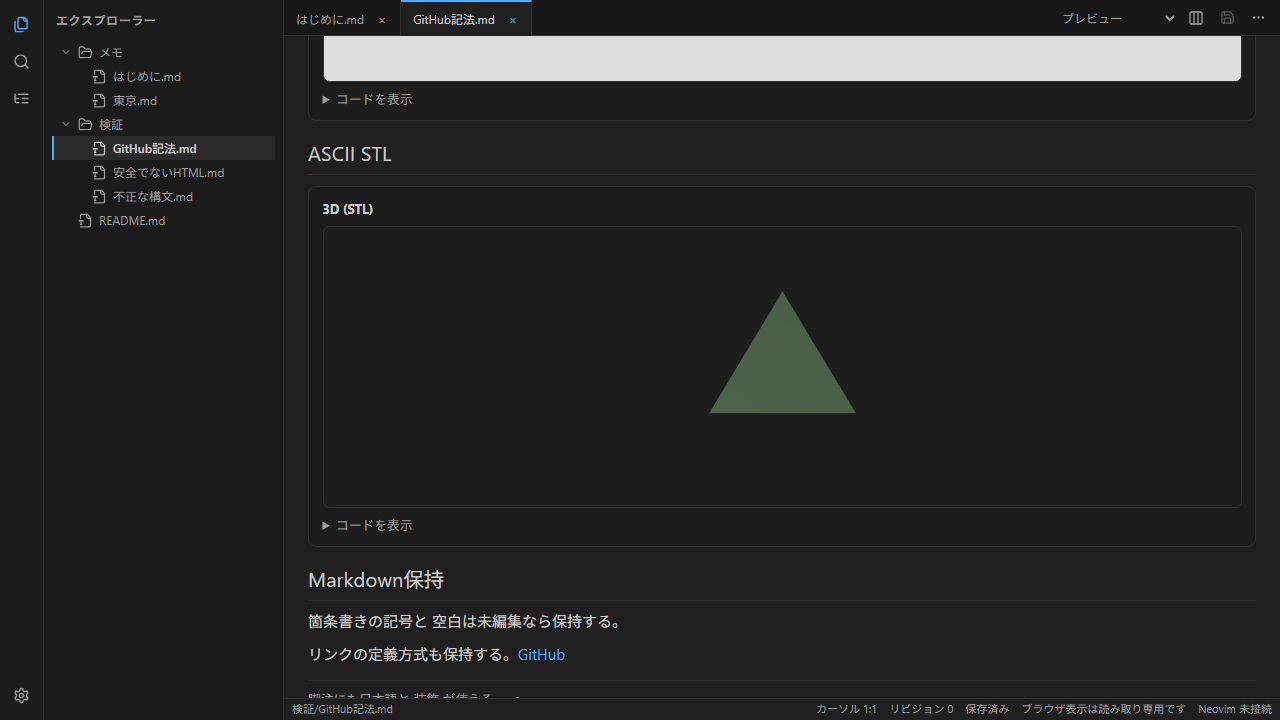
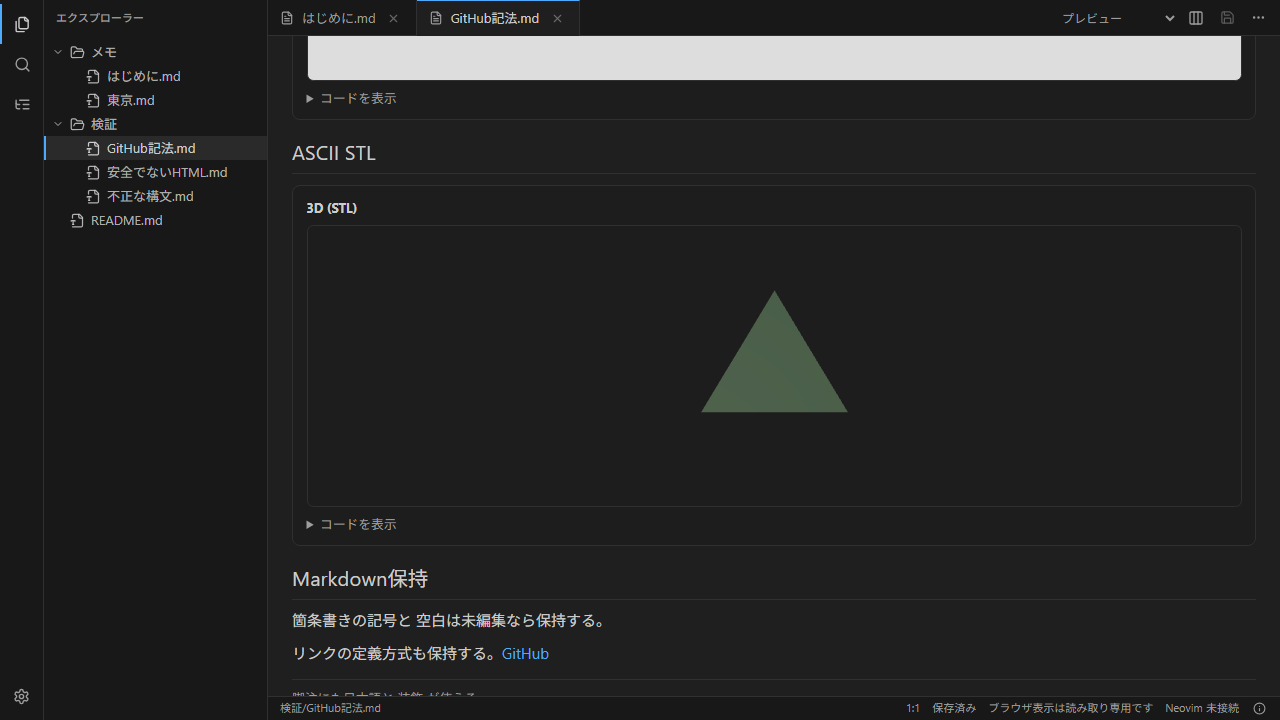
docs: verify desktop UI and manual CI on Windows and Linux

diff --git a/docs/reports/issue-9-integration.md b/docs/reports/issue-9-integration.md
@@ -1,27 +1,32 @@
 # Marxen 統合検証・Windows 配布確認
 
-検証日: 2026-10-09。環境: Windows x64、Node 22.23.2、Rust 1.99.0 MSVC、Tauri 2.12、WebView2 / Edge 154、Neovim 0.11.5。
+検証日: 2026-10-09。UI・配布物のソースは `8150fa1`。Windows x64、Node 22.23.2、Rust 1.99.0 MSVC、Tauri 2.12、WebView2 / Edge 154、Neovim 0.11.5。Rust 検証ソース `8eccced` と配布対象の `src-tauri/` は一致する。
 
 ## 自動検証
 
 | 検証 | 結果 |
 | --- | --- |
 | TypeScript `typecheck` / production `build` | 成功 |
-| Vitest | 36 ファイル / 231 件成功 |
+| Vitest | 38 ファイル / 239 件成功 |
 | 配布資源スクリプト | Node 3 件成功 |
-| Windows native Rust | 161 件成功。実 Neovim の編集・保存・復元・隔離、ローカル HTTP / ACP の AI 回帰を含む |
+| Windows native Rust | 162 件成功。実 Neovim の編集・保存・復元・隔離、ローカル HTTP / ACP の AI 回帰を含む |
 | Rust fmt / Clippy | fmt と全 target の `-D warnings` 成功 |
 | 生成 IPC 契約 | 文書・AI・隔離の 3 種類すべて一致 |
 | 製品 E2E | Chromium 12 件成功 |
 | ライブ編集器 E2E | Chromium 17 件成功 |
 | 実 Neovim smoke | 同梱資源と配布物の両方で、版・Markdown runtime・日本語・絵文字 buffer が成功 |
-| Docker devcontainer build | 未完了。OS 依存パッケージの展開中に Docker のビルド接続が切断された。Linux コンテナーの回帰は未実施 |
+| Linux の frontend | `8150fa1` の typecheck / build、38 ファイル / 239 件、資源スクリプト 3 件、製品 E2E 12 件・ライブ E2E 17 件成功 |
+| Linux native Rust / 契約 / Clippy / package | 開発依存不足で assertion 前に停止。fmt は成功。deb / AppImage は未生成 |
 
-資格情報ストアのテストは opt-in で、既定の Rust テストでは実ストアを操作しない。専用 entry を使った Windows の保存・再取得・削除は別途確認済み。利用者の API 資格情報は使っていない。
+実行したコマンドと workflow との差は [手動 CI](manual-ci.md) / [Linux 手動検証](issue-16-linux-manual-ci.md) に記載する。Rust の 162 件には、既定では早期 return する実資格情報ストアと実 ACP 接続の opt-in テスト各 1 件を含む。認証済み AI の生成成功を意味しない。専用 entry を使った Windows の保存・再取得・削除は別ソースで確認済み。利用者の API 資格情報は使っていない。
 
 ## Windows 実アプリ
 
-実 WebView2 と Rust の文書 snapshot、revision、ファイルを読み戻して判定した。キー・ドラッグは Windows への合成入力であり、ハードウェアによる押下ではない。
+`8150fa1` の NSIS を展開した実配布アプリで、ライブ・ツリー・タブ・左右分割・設定・Agent・インラインを確認した。画面と検証項目は [UI 検証](issue-17-ui.md) に保存する。Agent は二つの会話を切り替えて履歴を保持し、質問前後で本文不変。インラインは提案受信後も承認前は本文不変で、製品 UI の承認により最初の見出しだけを変更した。一回の UI Undo で Neovim と画面を元の本文・保存済みに復元し、ディスクの本文も一致した。
+
+[Agent](issue-17-ui/windows-agent.png)、[インライン](issue-17-ui/windows-inline.png)、[左右分割](issue-17-ui/windows-split.png)、[設定](issue-17-ui/windows-settings.png) は今回の配布アプリの実画面。
+
+以下の表は `afdef80` と当時の開発アプリ・配布物で実施した結果。今回の UI ソースでの再実施とは区別する。実 WebView2 と Rust の文書 snapshot、revision、ファイルを読み戻して判定した。キー・ドラッグは Windows への合成入力であり、ハードウェアによる押下ではない。
 
 | 操作 | 確認した結果 |
 | --- | --- |
@@ -36,32 +41,37 @@
 | AI 取消 | 途中の応答を取消し、提案を作らず文書を保持 |
 | 画像入りリッチコピー | Windows Word の通常の貼り付けで二つの PNG、見出し、表、日本語・絵文字を保持。HTML / RTF の両方に画像を含む。元のクリップボードを復元 |
 
-配布版から開いた [インラインチャット](issue-9-integration/windows-inline.png)、[Agent チャット](issue-9-integration/windows-agent.png)、[画像タブ](issue-9-integration/windows-image.png)。製品 E2E の [分割](issue-5-ui/split.png)、[設定](issue-5-ui/settings-dark.png) も参照。
+旧画面の [インライン](issue-9-integration/windows-inline.png)、[Agent](issue-9-integration/windows-agent.png)、[画像タブ](issue-9-integration/windows-image.png) は `afdef80` の配布版。製品 E2E の [分割](issue-5-ui/split.png)、[設定](issue-5-ui/settings-dark.png) は Chromium の画面であり、実 WebView2 と区別する。
 
-GUI の AI 回答・提案・取消はローカル検証用 ACP プロセスを使用した。認証済み provider への生成成功は意味しない。インラインの差分適用・Undo と画像ドラッグは同じ Rust / WebView2 の開発アプリで検証し、配布版では起動、画像表示、チャット、IME と資源配置を確認した。
+GUI の AI 回答・提案・取消はローカル検証用 ACP プロセスを使用した。認証済み provider への生成成功は意味しない。上表の画像ドラッグは当時の Rust / WebView2 開発アプリで検証し、IME・画像表示・チャット・資源配置は当時の配布版でも確認した。今回の配布版で確認した差分適用と Undo は前述の通り。
 
 ## Windows 配布物
 
-アプリソースは `afdef80`。未署名 NSIS `Marxen_0.1.0_x64-setup.exe` を生成し、インストールせず作業ディレクトリへ展開して起動した。
+アプリソースは `8150fa1fb0dd67d0a1169f7af07e533eca0740ce`。未署名 NSIS `Marxen_0.1.0_x64-setup.exe` を生成し、インストールせず作業ディレクトリへ展開して起動した。
 
 | 項目 | 値 |
 | --- | --- |
-| インストーラーのサイズ | 16,261,272 bytes |
[2 lines of base64/hex data omitted]
+| インストーラーのサイズ | 15,791,028 bytes |
[2 lines of base64/hex data omitted]
 | Neovim 資源 | 2,067 ファイル。配布元とのファイル集合・各 SHA-256 がすべて一致 |
+| 開発用バイナリー | 契約出力 3 種類と ACP / 隔離 mock 2 種類を含まない |
 
 展開したアプリと build 出力の差分は Tauri の NSIS 識別子 3 bytes のみ。実プロセスの親子関係から、展開先の `neovim/bin/nvim.exe` を起動したことも確認した。検証用画面に開いた文書は未保存変更を残さず閉じた。
 
 ## OS ごとの確認範囲
 
-CI は Windows x64 (NSIS)、macOS arm64 / x64 (app / DMG)、Linux x64 (deb / AppImage) で native テスト・IPC・E2E・package build を実行する設定。`7faaba1` の [実行](https://github.com/staka-devs/marxen/actions/runs/37860020737) は 4 target ともステップ開始前に停止した。GitHub の注釈はアカウントの支払い失敗または利用上限の制限を示し、テストログと配布成果物は生成されていない。ローカル Windows の成功と区別する。
+CI は Windows x64 (NSIS)、macOS arm64 / x64 (app / DMG)、Linux x64 (deb / AppImage) で native テスト・IPC・E2E・package build を実行する設定。`8150fa1` の [実行](https://github.com/staka-devs/marxen/actions/runs/37926614016) は 4 target とも step 数 0。GitHub の注釈はアカウントの支払い失敗または利用上限の制限を示し、テストログと配布成果物は生成されていない。手動検証の成功と区別する。
 
 対象コミットの最新結果と成果物は [PR #10 の checks](https://github.com/staka-devs/marxen/pull/10/checks) を参照する。古いコミットの結果を現在の確認結果に流用しない。
+
+Clean Architecture / YAGNI / DRY / SOLID のレビュー結果と未達箇所は [フロントエンド](issue-14-frontend-architecture.md) / [Rust](issue-15-backend-architecture.md) に記載する。Shell の責務集中と具体的な adapter への依存が残り、厳密な完全準拠とは判定しない。
 
 以下は未確認。
 
 - macOS / Linux の実 WebView、日本語 IME、OS 資格情報ストア、配布後の対話操作。
+- macOS の手動 native 回帰、Linux の native テスト・契約・Clippy・deb / AppImage。
+- 今回の UI ソースでの Windows 実 IME・Word 貼り付けの再検証。
 - Windows 実 WebView2 での地図・3D 描画。Chromium では確認済み。
 - 認証済み Codex / OpenCode / HTTP provider への生成要求。実 OpenCode 接続は initialize / session/new まで。
 - メールアプリへの画像入りリッチテキスト貼り付け。

diff --git a/docs/reports/issue-15-backend-architecture.md b/docs/reports/issue-15-backend-architecture.md
@@ -22,7 +22,7 @@
 | 文書の保存 / [storage](../../src-tauri/src/storage.rs) | GUI 保存の `save` と `marxen:save-requested` 通知処理は同じ `save_locked` → `storage::atomic_write` へ入る。保存は disk fingerprint を再確認し、Neovim の acknowledgement 後に dirty と recovery を清算する。 | GUI と `:w` の二重の本番保存経路はない。storage は OS / fs アダプターとして機能するが、DocumentActor が concrete module を直接呼ぶ。既存の save / Undo / recovery の動作は変更していない。 |
 | [Workspace](../../src-tauri/src/workspace.rs) | BTreeMap の DocumentActor 登録、`open_text_file` の disk 読出しと fingerprint 競合確認、一覧・検索・画像・recovery・poll を具体的に扱う。Tauri 型は使わない。 | アプリケーション側の組立てとファイルシステム操作を兼ねる。厳密な層分離や SRP の単一責務とは言えない。今回、登録・保存契約を再設計する根拠はなく、具体的な責務集中を残す。 |
 | [AI transport](../../src-tauri/src/ai.rs) / OS 資格情報 | `run_acp_prompt` は argv で子プロセスを起動し、`run_http_prompt` は reqwest の stream を処理する。`AgentKeyring` に OsKeyring / MemoryKeyring の実装があり、`resolve_http_request` が HTTP 接続先と資格情報を pin より前に解決する。 | transport、validation、SSE / NDJSON parser、registry、keyring が一つのモジュールに残る。AgentKeyring は実装とテストの差替えに利用される既存の小さい interface。transport の全面的な DIP / SRP は未達。 |
-| [IsolationManager](../../src-tauri/src/isolation.rs) | `create_copy` は文書の snapshot と登録範囲だけを使う。`authorize_prompt` は文書・revision・excerpt・範囲の完全一致を検証する。`approve` は全 actor を native preflight してから範囲適用し、部分失敗 / native Undo rollback の結果を返す。 | コピー管理、パスガード、diff / proposal、承認処理、契約型と fs の責務が集中している。Workspace / DocumentActor / storage に直接依存する。範囲認可・原本文書の権威・pin 契約を保つ具体的なアプリケーション境界とする。 |
+| [IsolationManager](../../src-tauri/src/isolation.rs) | `create_copy` は文書の snapshot と登録範囲だけを使う。`authorize_prompt` は文書・revision・excerpt・範囲の完全一致を検証する。`approve` は全 actor を native preflight してから範囲適用し、部分失敗 / native Undo rollback の結果を返す。 | コピー管理、パスガード、diff / proposal、承認処理、契約型と fs の責務が集中している。Workspace / DocumentActor / storage に直接依存する。範囲認可・実 Neovim 正本・pin 契約を保つ具体的なアプリケーション境界とする。 |
 | Tauri / [lib](../../src-tauri/src/lib.rs) / [ipc](../../src-tauri/src/ipc.rs) | lib が plugin / state / resource directory / invoke handler とイベント poll を構成する。IPC が Tauri State・AppHandle・ロック・画面通知を扱う。 | composition と adapter の配置は妥当。旧 `ai::*` / `isolation::*` 経路は互換 re-export で IPC を参照するので、ソース依存の向きが完全に内側へ統一されたわけではない。 |
 
 ## 原則別の結論
@@ -30,7 +30,14 @@
 - **Clean Architecture:** 副作用のない validation、OS / RPC 実装、デスクトップ接続の境界は確認できる。アプリケーションは具体的な Neovim / storage / fs / reqwest に依存し、互換 facade は外側を参照するため、依存規則の全面準拠とは言えない。
 - **YAGNI:** 使用されない staging resolver interface とテスト用実装を除去した。本番 caller のない AI 側の重複パスガードも除去し、隔離側の逸脱拒否を維持した。新しい port、汎用 DI、plugin framework、別の文書正本を導入していない。
 - **DRY:** 隔離実行の準備は本番 IPC と ACP 終了テストで同じ入口を使う。保存は同じ production flow。本番 caller のない AI パスガードを除去して、production の isolation ガードに確認を集約した。残る重複として actor の初期化 / configure の Neovim 設定と複数の ID 検証がある。初期化の差異やエラー契約を確認せず機械的に統合しない。
-- **SOLID:** actor の状態所有、隔離準備、IPC アダプターの責務を改善した。SRP / DIP の未達は上表の通り。provider は明示的な enum / match で扱い、単一実装の将来拡張だけを理由に OCP の framework を作らない。今回 LSP / ISP の全面準拠を立証するものではない。
+
+| SOLID の原則 | 判定・根拠 |
+| --- | --- |
+| SRP | IPC の画面接続と隔離実行の準備を分離した。ただし DocumentActor、Workspace、AI transport、IsolationManager は上表の複数の責務を持つため、全面的には未達 |
+| OCP | provider は明示的な enum / match で扱い、接続先追加には validation と adapter の分岐変更が必要。全面的には未達。未要求の plugin framework は追加しない |
+| LSP | `AgentKeyring` の Memory / OS 実装は資格情報長の検証、未登録時の `None`、未登録の削除成功という同じ契約を持つ。mock の呼出しとエラー処理は回帰確認したが、今回の既定テストは全 OS の実ストアを操作せず、全面的な置換可能性の実証にはならない |
+| ISP | 資格情報 interface は get / set / delete / has の利用する操作に限定。文書・AI・隔離の IPC 型を分離。一方 Workspace / DocumentActor の具体的な大きい API を利用側が参照するため、全面的な interface 分離は未達 |
+| DIP | 資格情報は既存の `AgentKeyring` を介して差し替えられる。文書・隔離ユースケースは具体的な Neovim / storage / fs に依存し、互換 facade は外側の IPC を参照するため、全面的には未達 |
 
 ## 維持する契約
 
@@ -55,6 +62,8 @@ Windows x64 の native Rust、既定の `desktop` feature、`CARGO_BUILD_JOBS=1`
 
 新しい 2 件の隔離テストは、範囲を広げた要求・異なる Workspace・存在しない staging が pin を残さないこと、成功後の承認・却下・取消が実際の pin 解放まで拒否されることを確認する。既存の native Neovim による範囲適用・Undo・disk/revision 競合・部分 rollback・遅延した子プロセス・HTTP 終了・panic 時の回収テストも通過した。
 
-## 未実施の検証
+## 統合検証と未確認の範囲
 
-この変更に対する Rust 全 suite、Clippy、3 種類の TypeScript 契約出力比較、配布 package はこの対象検証には含めていない。認証済みの実 AI 接続と OS 資格情報ストア、Windows の実 WebView / IME、macOS / Linux の native テスト・実 WebView / IME も未実施。native Neovim / mock transport の成功からこれらの成功を推定しない。
+統合した `8eccced` で Windows native Rust 全 162 件、Clippy `-D warnings`、3 種類の TypeScript 契約出力比較、NSIS 生成を確認した。UI ソース `8150fa1` の Rust / Tauri ソースは `8eccced` と同じ。実 Windows WebView2 → Rust → ACP fixture の回答、範囲承認、実 Neovim の Undo も確認した。コマンドと実行対象は [手動 CI](manual-ci.md)、GUI と配布の証拠は [統合検証](issue-9-integration.md) / [UI 検証](issue-17-ui.md) に記載する。
+
+認証済みの実 AI 生成、今回の実 OS 資格情報ストア / IME の再検証、macOS の native 回帰、macOS / Linux の実 WebView / IME は未実施。Linux の native コマンドは開発依存不足で assertion 前に停止した。native Neovim / mock transport の成功からこれらの成功を推定しない。

diff --git a/docs/reports/issue-17-ui.md b/docs/reports/issue-17-ui.md
@@ -1,0 +1,32 @@
+# デスクトップ UI の検証
+
+対象ソース: `8150fa1`。検証日: 2026-10-09。Windows x64 / WebView2 / 同梱 Neovim 0.11.5。生成した NSIS から展開した配布アプリを起動した。実アプリの文書と画像は検証専用のローカル fixture。
+
+## 画面と操作
+
+タブとツリーの行高、アイコン、余白、選択状態、ボタンの密度を統一した。ライブは本文幅を調整し、ステータスバーは通常の編集に必要な情報を示す。Agent のモードと操作は入力欄にまとめ、履歴・新規・閉じる操作はヘッダーに置く。接続設定と完了したレビューは折りたたむ。設定はアプリ全体の中央へ配置する。
+
+実 Windows WebView2 の配布アプリ画面を撮影し、ライブ、左右分割、Agent、インライン、設定を目視確認した。WebView 内の寸法は 1180 × 800、Windows の 125% 表示で撮影したウィンドウは 1493 × 1047。配布物の資源と SHA-256 は [統合検証](issue-9-integration.md) に記載する。
+
+| 確認 | 結果 |
+| --- | --- |
+| ライブとツリー | フォルダー・ファイル・画像のアイコン、選択行、タブの名前・アイコン・閉じる操作、本文の余白、アクティブ行とブロックカーソルを確認 |
+| 分割 | 編集とプレビューの幅は各 453.5px、間に 5px の separator。本文を重ねず左右に表示。独立したスクロールと幅変更操作がある |
+| 設定 | 760 × 600px の dialog がアプリ全体の中央。Agent が開いていても中心が変わらない。カテゴリ、数値・選択・チェック操作を確認 |
+| Agent | 実 Rust → ローカル ACP fixture → WebView2 の回答。質問で本文を変更しない。二つの会話を作成・切替し、回答履歴を保持。入力欄がパネル下部に収まる |
+| ショートカット | Windows 合成キーを WebView の trusted event として観測。Ctrl+i はインラインを開かず、Ctrl+Shift+i はインラインを開く |
+| インライン | 編集領域の中、カーソル付近に収まる。入力欄へフォーカスし、Agent を閉じる。回答前後の Rust snapshot は同一 |
+| 承認と Undo | UI の承認で最初の見出しだけを変更し、残りの本文は完全一致。製品 UI の「元に戻す」一回で Neovim と画面が元の本文・保存済みへ復元。ディスクを変更しない |
+| 完了したレビュー | 結果を折りたたみ、無効な承認操作を表示しない。失敗・rollback の既存回帰を維持 |
+
+画面画像は [Agent](issue-17-ui/windows-agent.png)、[インライン](issue-17-ui/windows-inline.png)、[分割](issue-17-ui/windows-split.png)、[設定](issue-17-ui/windows-settings.png) を参照する。
+
+## 回帰と設計
+
+CI 相当の実行コマンドと最終結果は [手動 CI](manual-ci.md)。`WorkspaceShell.ai-review.test.tsx` は radio から select への操作変更に対応し、範囲・revision・承認・競合・rollback の assertion を維持した。追加の回帰は履歴コントロール・初回の不要な再試行非表示、閉じる操作、完了したレビューの表示を確認する。
+
+新しい dependency や汎用状態管理基盤は追加していない。共通の Button と chat CSS で操作の見た目を共有し、Neovim・保存・AI 通信の所有は Rust のまま。アプリの判断は [ADR-0102](../adr/ADR-0102-編集画面とチャットの操作密度を統一する.md)。厳密な Clean Architecture / SOLID の未達箇所は [フロントエンド](issue-14-frontend-architecture.md) / [Rust](issue-15-backend-architecture.md) に記載する。
+
+## 確認範囲
+
+デスクトップの操作確認は実 Windows WebView2 を使った。AI は fixture による回答であり、認証済みの外部 provider の生成結果ではない。今回の実 IME・Word 貼り付けの再検証、macOS / Linux の実 WebView / IME は未実施。過去の IME・コピー検証とは [統合検証](issue-9-integration.md) で区別する。

diff --git a/docs/reports/manual-ci.md b/docs/reports/manual-ci.md
@@ -1,0 +1,43 @@
+# CI 相当の手動検証
+
+検証日: 2026-10-09。対象コマンドは [Integration workflow](../../.github/workflows/ci.yml)。各コマンドの終了コードを確認した。GitHub Actions の成功としては扱わない。
+
+## Windows x64
+
+Windows / MSVC、Node 22.23.2、npm 11.17、Rust 1.99.0、同梱 Neovim 0.11.5。UI・フロントエンドのソースは `8150fa1`。Rust・生成契約の検証ソースは `8eccced` で、`8150fa1` の `src-tauri/` との一致を比較した。配布物の識別情報は [統合検証](issue-9-integration.md) に記載する。
+
+| 手動実行したコマンド | 結果 |
+| --- | --- |
+| `npm ci` | 成功、脆弱性 0 件。依存 lockfile は検証後変更していない |
+| `npm run bundle:neovim -- --target x86_64-pc-windows-msvc` | 成功 |
+| `npm run verify:neovim -- --target x86_64-pc-windows-msvc` | 実 Neovim の版・Markdown runtime・日本語・絵文字を確認 |
+| `npm run contracts:check` | 成功 |
+| `npm run ai-contracts:check` | 成功 |
+| `npm run isolation-contracts:check` | 成功 |
+| `npm run typecheck` | 成功 |
+| `npm test -- --maxWorkers=2` | exit 0、38 ファイル / 239 件成功 |
+| `npm run test:bundling` | Node 3 件成功 |
+| `npm run build` | 成功 |
+| `cargo fmt --manifest-path src-tauri/Cargo.toml -- --check` | 成功 |
+| `cargo test --manifest-path src-tauri/Cargo.toml --locked --features dev-tools -j1` | Windows native Rust 162 件成功 |
+| `cargo check --manifest-path src-tauri/Cargo.toml --locked -j1` | 成功 |
+| `cargo clippy --manifest-path src-tauri/Cargo.toml --locked --features dev-tools -j1 --all-targets -- -D warnings` | 成功 |
+| `npx playwright install --with-deps chromium` | 成功 |
+| `npm run test:e2e` | 製品 12 件 / ライブ編集器 17 件成功 |
+| `npm run tauri -- build --config src-tauri/tauri.bundle.conf.json --bundles nsis` | 未署名 NSIS の生成に成功。展開・資源照合は統合検証に記載 |
+
+並列度だけを Vitest 2 / Cargo 1 に制限し、Rust build cache を使用した。Windows の package コマンドは host が `x86_64-pc-windows-msvc` のため明示的な `--target` を省略した。workflow の別 target 用の出力ディレクトリとは異なるが、製品 feature と配布設定は同じ。テスト対象・assertion・retry は削減していない。
+
+Rust の件数には、既定では早期 return する実資格情報ストアと実 ACP 接続の opt-in テスト各 1 件を含む。利用者の API 認証・生成の成功として扱わない。
+
+## Linux x64
+
+Linux のコマンド、実際の環境差、成功・実行不能の区別は [Linux 手動検証](issue-16-linux-manual-ci.md) に記載する。macOS arm64 / x64 の手動検証は未実施。
+
+## GitHub Actions
+
+`8150fa1` の [workflow run](https://github.com/staka-devs/marxen/actions/runs/37926614016) は 4 target とも step 数 0。Windows の check annotation はアカウントの支払い失敗または利用上限の制限を示す。コードのテスト結果や package は生成されていない。以降の対象コミットの状態は [PR #10 checks](https://github.com/staka-devs/marxen/pull/10/checks) を参照する。
+
+## 設計レビュー
+
+[フロントエンド](issue-14-frontend-architecture.md) と [Rust](issue-15-backend-architecture.md) で Clean Architecture、YAGNI、DRY、SOLID の各原則を確認する。未使用経路・重複・UI と IPC の責務混在を修正した。一方、Shell の状態所有、文書 actor の Neovim / 保存への具体依存、provider 追加時の分岐変更が残るため、厳密な完全準拠とは判定しない。

diff --git a/docs/reports/issue-16-linux-manual-ci.md b/docs/reports/issue-16-linux-manual-ci.md
@@ -1,0 +1,41 @@
+# Linux x64 の手動検証
+
+検証日: 2026-10-09。フロントエンドの検証ソース: `8150fa1`。Rust・契約出力・配布コマンドの検証ソース: `8eccced`。両者の `src-tauri/` の一致を比較した。Linux WebKitGTK / OS IME の検証ではない。
+
+## 環境と workflow との差
+
+Ubuntu 26.04.1 x64、Node 22.22.1、npm 9.2.0、Rust 1.99.0、Neovim 0.11.5。workflow は Ubuntu 24.04 / Node 22.23.2 であり、この環境と同一ではない。
+
+Vitest の worker 数を 1 に制限し、assertion・timeout・retry を変更せず全 239 件が成功した。
+
+Playwright は `TMPDIR="$PWD/.local/pw-download-temp" npx playwright install --only-shell chromium` を実行し、Headless Shell 153.0.8010.12 / v1243 を取得した。workflow の `--with-deps` による system package の準備は完了していない。ブラウザ E2E の実行結果と native 開発依存の不足を分けて評価する。
+
+## 成功したコマンド
+
+| コマンド | 結果 |
+| --- | --- |
+| `npm ci` | 成功、脆弱性 0 件 |
+| `npm run bundle:neovim -- --target x86_64-unknown-linux-gnu` | 成功 |
+| `npm run verify:neovim -- --target x86_64-unknown-linux-gnu` | 実 Neovim の版・Markdown runtime・日本語・絵文字を確認 |
+| `npm run typecheck` | 成功 |
+| `npm test -- --maxWorkers=1` | exit 0、38 ファイル / 239 件成功、コマンド全体 159 秒 |
+| `npm run test:bundling` | Node 3 件成功 |
+| `npm run build` | 成功 |
+| `cargo fmt --manifest-path src-tauri/Cargo.toml -- --check` | 成功 |
+| `CI=true npm run test:e2e` | exit 0。製品 12 件 / 43.7 秒、ライブ編集器 17 件 / 1.1 分。コマンド全体 113 秒 |
+
+フロントエンド検証の終了後、ソースは `8150fa1` のまま変更なし。15 枚のブラウザ画像を検証用の保存先へコピーした。ブラウザの IME composition fixture の成功を、Linux 実 WebView / OS IME の成功として扱わない。
+
+## native 開発依存で実行できない検証
+
+以下を手動で実行したが、`pkg-config` がなく `libdbus-sys` / `glib-sys` 等の build script で停止する。Rust のテスト assertion や Clippy 診断まで到達していない。system package のインストールには対話的な管理者認証が必要で、この環境では完了していない。
+
+| コマンド | 結果 |
+| --- | --- |
+| `npm run contracts:check` / `ai-contracts:check` / `isolation-contracts:check` | 各 exit 101、DBus の開発依存不足 |
+| `cargo test --manifest-path src-tauri/Cargo.toml --locked --features dev-tools -j2` | exit 101、GLib 等の開発依存不足 |
+| `cargo check --manifest-path src-tauri/Cargo.toml --locked -j2` | exit 101、同上 |
+| `cargo clippy --manifest-path src-tauri/Cargo.toml --locked --features dev-tools -j2 --all-targets -- -D warnings` | exit 101、同上 |
+| `CI=true npm run tauri -- build --target x86_64-unknown-linux-gnu --config src-tauri/tauri.bundle.conf.json --bundles deb,appimage` | exit 1、GLib 等の開発依存不足。package は未生成 |
+
+`8eccced` の `cargo fmt --manifest-path src-tauri/Cargo.toml -- --check` は exit 0。Windows での同ソースの Rust 検証は [手動 CI](manual-ci.md) / [統合検証](issue-9-integration.md) を参照。Linux native テスト、deb / AppImage、実 WebView / IME は未確認として追跡する。

diff --git a/docs/adr/ADR-0100-ライブ表示のブラウザ検証で初回コンパイルの時間を確保する.md b/docs/adr/ADR-0100-ライブ表示のブラウザ検証で初回コンパイルの時間を確保する.md
@@ -6,7 +6,7 @@
 
 ## 背景
 
-ライブ表示の Playwright harness は Vite の開発サーバーでローカルの Markdown 描画器を読み込む。空の専用キャッシュでは初回のページ読み込みにコンパイルが含まれる。Windows の手動 CI で、最初のテストは 45.0 秒、同じ検証の次回実行は 1.4 秒で成功した。既定の 30 秒では、機能の assertion に達する前に終了する。
+ライブ表示の Playwright harness は Vite の開発サーバーでローカルの Markdown 描画器を読み込む。空の専用キャッシュでは初回のページ読み込みにコンパイルが含まれ、既定の 30 秒を超える場合がある。コンパイルを含む時間と機能の assertion の時間を区別する必要がある。
 
 ## 決定と理由
 
